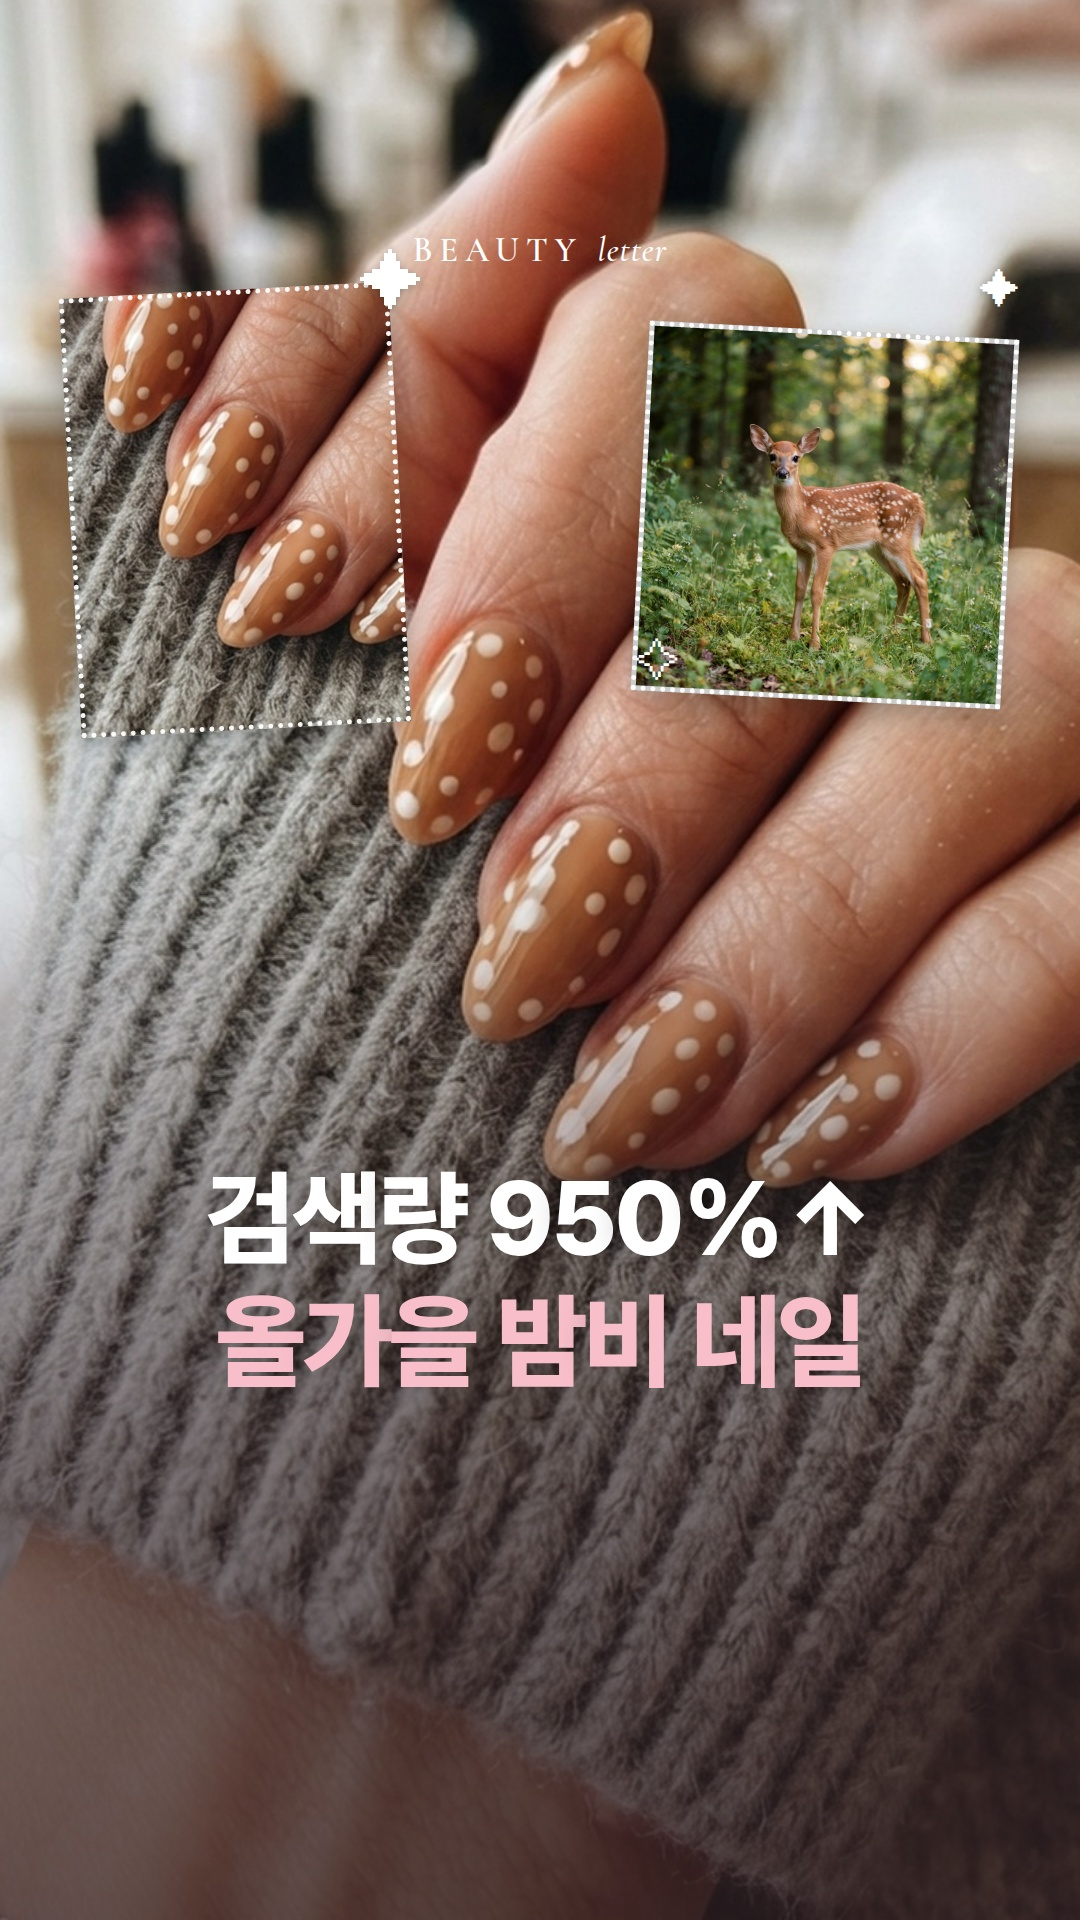
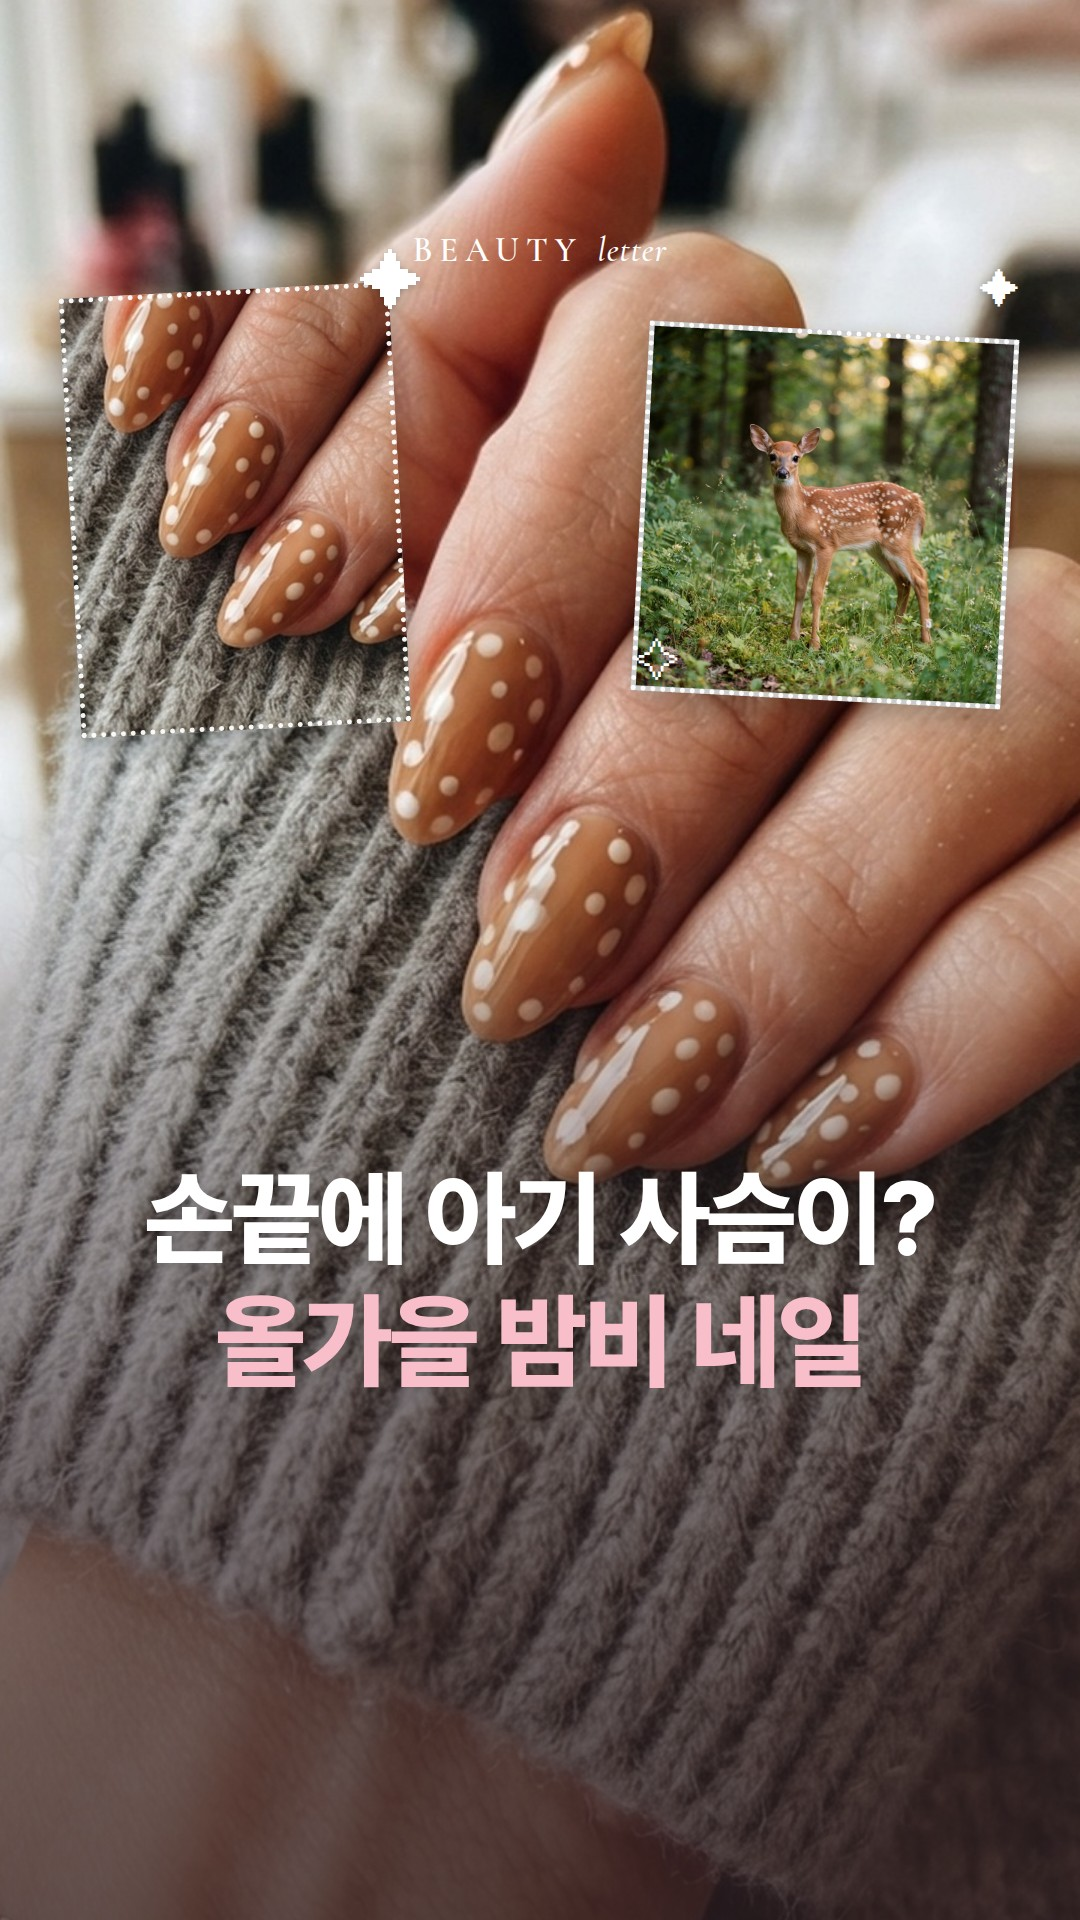
뷰티레터: 밤비 네일 썸네일 제목을 '손끝에 아기 사슴이?'로
Claude-Session: https://claude.ai/code/session_01M29FXMb16fvzM5BCrcufte

Changed region(s): [[0.1222, 0.5938, 0.8556, 0.6562]]

diff --git a/design/beauty_news/letters/2026-10-18_bambi/reel.html b/design/beauty_news/letters/2026-10-18_bambi/reel.html
@@ -22,7 +22,7 @@
   <div class="doodle static" style="right:400px; top:640px; font-size:44px">✧</div>
   <div class="doodle static" style="right:60px; top:270px; font-size:40px">✦</div>
   <div class="bl-mark static">BEAUTY <i>letter</i></div>
-  <div class="ttl"><h1>검색량 950%↑<br/><em>올가을 밤비 네일</em></h1></div>
+  <div class="ttl"><h1>손끝에 아기 사슴이?<br/><em>올가을 밤비 네일</em></h1></div>
 </section>
 
 <!-- 본문 첫 장: 썸네일 사진 한 번 더 -->
